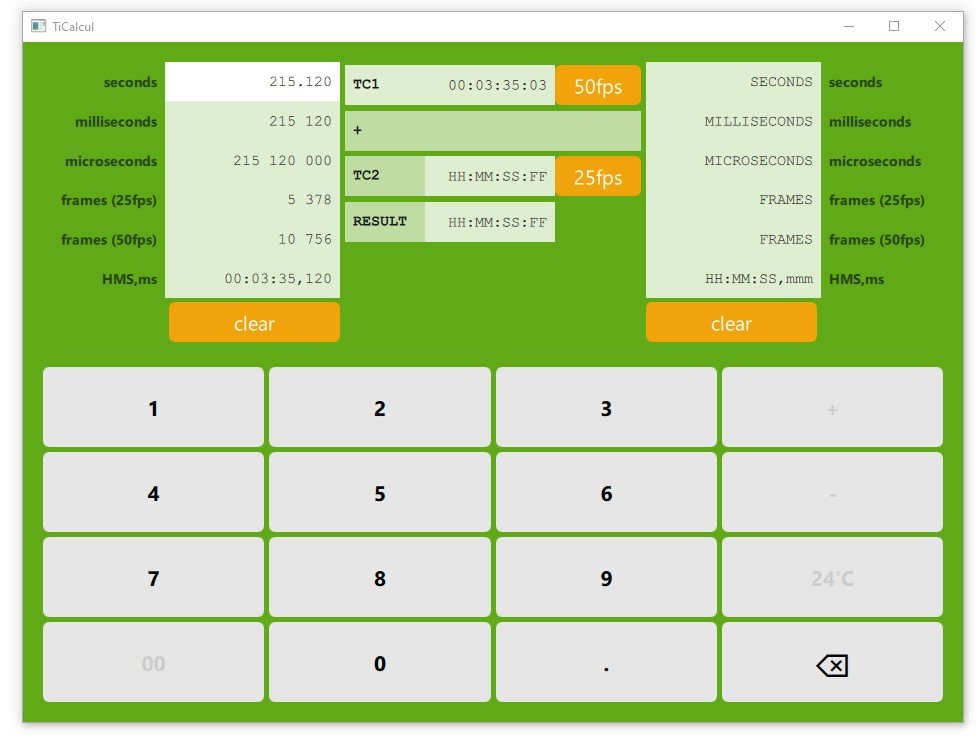
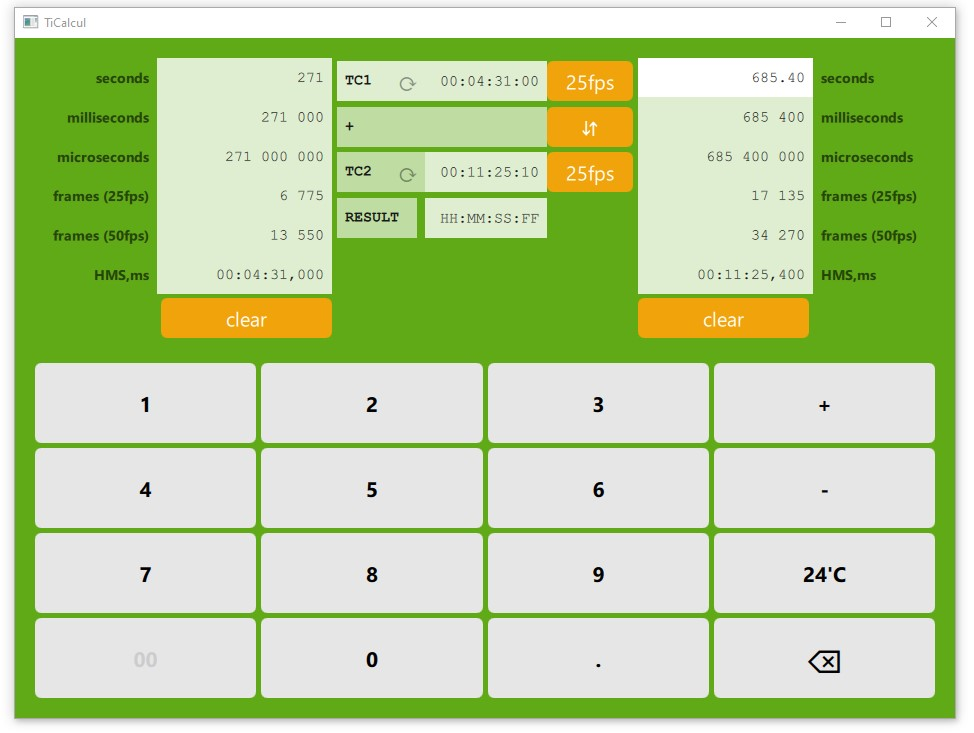
Classe Calculateur: le moteur de calcul de Timecodes

diff --git a/Qml/Vues/KeyboardForm.ui.qml b/Qml/Vues/KeyboardForm.ui.qml
@@ -46,7 +46,7 @@ GridLayout {
     KeyboardKeyForm {
         id: keyPlus
         buttonText: "+"
-        enabled: false
+        enabled: true
         Layout.fillWidth: true
     }
     KeyboardKeyForm {
@@ -67,7 +67,7 @@ GridLayout {
     KeyboardKeyForm {
         id: keyMinus
         buttonText: "-"
-        enabled: false
+        enabled: true
         Layout.fillWidth: true
     }
     KeyboardKeyForm {
@@ -88,7 +88,7 @@ GridLayout {
     KeyboardKeyForm {
         id: keyComplt
         buttonText: "24'C"
-        enabled: false
+        enabled: true
         Layout.fillWidth: true
     }
     KeyboardKeyForm {

diff --git a/Sources/calculateur.cpp b/Sources/calculateur.cpp
@@ -1,0 +1,57 @@
+#include "calculateur.h"
+
+
+/*! **********************************************************************************************************
+ * \brief Constructeur.
+ * \param tc1: premier opérande.
+ * \param tc2: second opérande.
+ * \param result: opérande résultat.
+ * \param parent: QObject parent.
+ ************************************************************************************************************* */
+Calculateur::Calculateur(Operande* tc1, Operande* tc2, Operande* result, QObject* parent)
+{
+    this->mTC1 = tc1;
+    this->mTC2 = tc2;
+    this->mResult = result;
+}
+
+/*! **********************************************************************************************************
+ * \brief Calculateur::complement
+ ************************************************************************************************************* */
+void Calculateur::complement()
+{
+    qint64 value = mTC1->valeurPivot();
+    // la valeur doit être positive et inférieure à 24h.
+    if (value > Converter::us_PerDay) return;
+    if (value < 0) return;
+    mResult->setValeurPivot(Converter::us_PerDay - value);
+}
+
+/*! **********************************************************************************************************
+ * \brief Calculateur::add
+ ************************************************************************************************************* */
+void Calculateur::add()
+{
+    qint64 somme = mTC1->valeurPivot() + mTC2->valeurPivot();
+    mResult->setValeurPivot(somme);
+}
+
+/*! **********************************************************************************************************
+ * \brief Calculateur::substract
+ ************************************************************************************************************* */
+void Calculateur::substract()
+{
+    qint64 result = mTC1->valeurPivot() - mTC2->valeurPivot();
+    mResult->setValeurPivot(result);
+}
+
+/*! **********************************************************************************************************
+ * \brief Calculateur::swap
+ ************************************************************************************************************* */
+void Calculateur::swap()
+{
+    qint64 temp_1 = mTC1->valeurPivot();
+    qint64 temp_2 = mTC2->valeurPivot();
+    mTC1->setValeurPivot(temp_2);
+    mTC2->setValeurPivot(temp_1);
+}

diff --git a/Sources/calculateur.h b/Sources/calculateur.h
@@ -1,0 +1,33 @@
+#ifndef CALCULATEUR_H
+#define CALCULATEUR_H
+
+#include <QObject>
+
+#include "Operande.h"
+
+/*! **********************************************************************************************************
+ * \brief La classe Calculateur est en charge de gérer les opérations entre
+ * les opérandes: addition, soustraction, complément.
+ ************************************************************************************************************* */
+
+class Calculateur : public QObject
+{
+    Q_OBJECT
+
+public:
+    explicit Calculateur(Operande* tc1, Operande* tc2, Operande* result, QObject* parent = nullptr);
+    Q_INVOKABLE void complement();
+    Q_INVOKABLE void add();
+    Q_INVOKABLE void substract();
+    Q_INVOKABLE void swap();
+
+signals:
+
+
+private:
+    Operande* mTC1;         //!< premier opérande.
+    Operande* mTC2;         //!< second opérande.
+    Operande* mResult;      //!< opérande résultat.
+};
+
+#endif // CALCULATEUR_H

diff --git a/main.cpp b/main.cpp
@@ -4,6 +4,7 @@
 #include <QIcon>
 
 #include "Sources/operande.h"
+#include "Sources/calculateur.h"
 
 /* ********************************************************************************* */
 /*!
@@ -27,6 +28,7 @@ int main(int argc, char* argv[])
     Operande operande_tc1("tc1");
     Operande operande_tc2("tc2");
     Operande operande_res("result");
+    Calculateur calculateur(&operande_tc1, &operande_tc2, &operande_res);
 
     // --------------------------------------
     // Initialisation du moteur:
